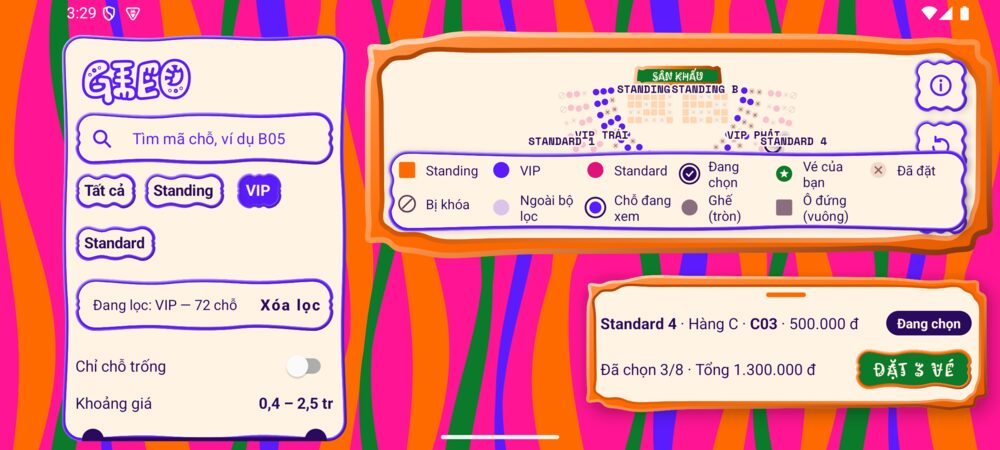
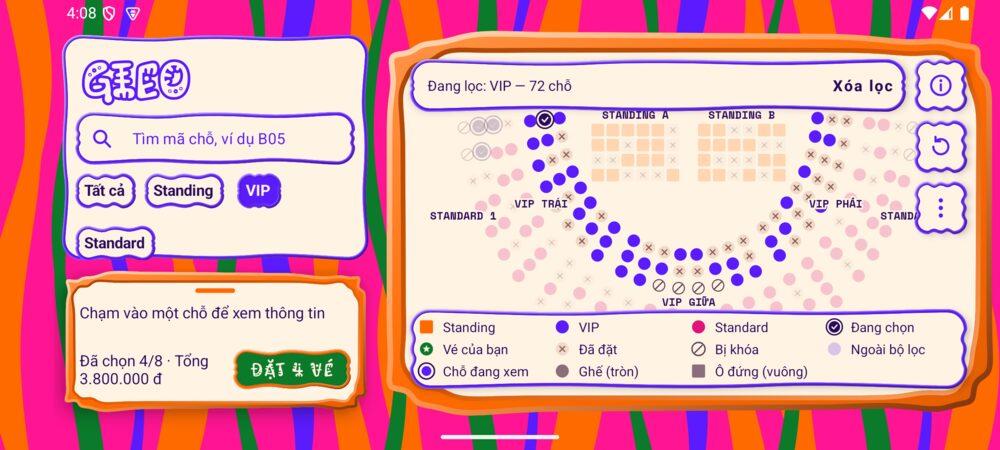
docs(readme): describe docked landscape sheet
Explains the two-tier left column and the floating filter status in
landscape, refreshes the landscape screenshot, and logs this session.

diff --git a/README.md b/README.md
@@ -32,7 +32,7 @@ Mỗi chỗ có một trong năm trạng thái hiển thị: **Còn trống**, *
 | Bottom Sheet | Thu gọn hiện chỗ đang xem và tóm tắt lựa chọn; mở rộng hiện danh sách "Đang chọn" và "Vé của bạn"; bấm dòng để định vị chỗ trên sơ đồ, bấm ✕ để bỏ chọn; đồng bộ hai chiều với sơ đồ |
 | Đặt vé | Nút "Đặt N vé", hộp thoại xác nhận, chỗ đã đặt thành "Vé của bạn" |
 | Lưu dữ liệu | Lựa chọn và vé của bạn được lưu bằng `SharedPreferences` và còn lại sau khi tắt hẳn app; nút ⋮ → "Làm mới dữ liệu" để xóa |
-| Xoay màn hình | Giữ nguyên chỗ đang xem, bộ lọc, góc nhìn, bảng chú thích, hộp thoại; bố cục riêng cho máy ngang (panel lọc bên trái, bảng chi tiết 420dp) |
+| Xoay màn hình | Giữ nguyên chỗ đang xem, bộ lọc, góc nhìn, bảng chú thích, hộp thoại; bố cục riêng cho máy ngang: cột trái gồm panel lọc ở trên và bảng chi tiết ở đáy, sơ đồ bên phải cao trọn màn hình nên bảng chú thích chỉ che khoảng 22% sơ đồ |
 | Giao diện "Poster lỏng" | Cả màn hình là poster hồng sen với các dải lỏng cam, xanh lá, tím uốn lượn liên tục; sơ đồ là một miếng sticker có viền cam lượn sóng, nổi khối (sáng ở góc trên trái, tối ở góc dưới phải); thanh lọc, nút, hộp thoại và bảng chi tiết cũng là sticker có viền nổi cùng hướng sáng; sticker sơ đồ kết thúc cách bảng chi tiết 10dp nên không bị che. Nhãn khu viết hoa; ký hiệu ✓ ✕ ★ và gạch chéo hiện ở mọi mức zoom. Chữ lượn Kablammo cho "SÂN KHẤU" và nút "Đặt N vé" (xanh lá viền cam), Space Mono cho nhãn. Bố cục khớp bản xem trước "G. Poster lỏng" |
 | Hiệu ứng động | Mở app: chỗ hiện dần từ sân khấu ra. Chọn hoặc bỏ chọn: chỗ nảy lên kèm vòng lan. Chạm chỗ không chọn được: chỗ lắc ngang. Đặt vé xong: các chỗ lần lượt lật sang "Vé của bạn". Chip và nút nảy khi bấm; tổng tiền chạy số. Tắt hết khi người dùng tắt hiệu ứng động của hệ thống |
 | Tên đêm nhạc "Gieo" | Chữ lượn Kablammo màu kem viền tím ở đầu thanh lọc (máy ngang: đầu panel lọc). Mở app: từng chữ rơi xuống nảy nhẹ, sau đó lắc lư rất chậm; xoay máy thì hiện ngay, không rơi lại |
@@ -46,7 +46,7 @@ Chụp trên emulator Pixel 6 (Android 15) từ bản thử nghiệm giao diện
 |:---:|:---:|:---:|
 | <img src="docs/screenshots/portrait-default.jpg" width="240" alt="Màn hình dọc ở góc nhìn mặc định"> | <img src="docs/screenshots/portrait-selected-sheet.jpg" width="240" alt="Đã zoom vào sơ đồ, chọn 3 chỗ, bảng chi tiết mở rộng"> | <img src="docs/screenshots/booking-dialog.jpg" width="240" alt="Hộp thoại xác nhận đặt 3 vé"> |
 
-Ngang: panel lọc bên trái, bảng chi tiết rộng 420dp ở góc dưới phải, bảng chú thích đang mở, bộ lọc VIP đang bật.
+Ngang: cột trái gồm panel lọc và bảng chi tiết, sơ đồ cao trọn màn hình bên phải; bộ lọc VIP đang bật (thẻ "Đang lọc" nổi ở đầu sơ đồ) và bảng chú thích đang mở.
 
 <img src="docs/screenshots/landscape-filter-legend.jpg" width="640" alt="Màn hình ngang có bộ lọc VIP và bảng chú thích">
 
@@ -122,7 +122,7 @@ Các quyết định kiến trúc chính:
 - **Cử chỉ:** `GestureDetector` cho kéo một ngón và chạm (`onSingleTapUp`, phản hồi tức thì, không chờ chạm đúp); zoom và xoay hai ngón tự đo, vì `ScaleGestureDetector` chỉ bắt đầu khi hai ngón cách nhau tối thiểu `getScaledMinimumScalingSpan()` (đo được 446px trên emulator Android 15) nên zoom bị trễ rõ rệt.
 - **Bottom Sheet:** `CoordinatorLayout` + `BottomSheetBehavior` (persistent sheet, sơ đồ vẫn chạm được khi sheet mở). Hai hộp thoại xác nhận là `DialogFragment` nên `FragmentManager` tự tạo lại sau khi xoay.
 - **Trang trí tách khỏi sơ đồ.** Nền poster và viền sticker là hai View riêng trong package `decor/`, không phải là chỗ, nên không vi phạm yêu cầu "mọi chỗ vẽ bởi một Custom View". `VenueMapView` vẫn chỉ vẽ sân khấu và 224 chỗ; sơ đồ lùi vào 16dp để mép nằm khuất dưới viền. Sơ đồ vẫn kéo xuống dưới bảng chi tiết như trước (camera không đổi), nhưng được cắt bằng outline của View: bo góc 44dp và bỏ phần dưới đáy sticker. Chạm lên viền hay vào khe giữa sticker và bảng không lọt xuống sơ đồ.
-- **Bố cục dọc và ngang** dùng chung các file include (`view_map_layers`, `view_bottom_sheet`, `view_price_controls`, `view_filter_status`) với **cùng bộ id**, nên `MainActivity` không cần biết hướng màn hình. `layout-land/` chỉ khác ở vị trí các khối.
+- **Bố cục dọc và ngang** dùng chung các file include (`view_map_layers`, `view_bottom_sheet`, `view_price_controls`, `view_filter_status`) với **cùng bộ id**, nên `MainActivity` không cần biết hướng màn hình. `layout-land/` chỉ khác ở vị trí các khối: bảng chi tiết nằm trong một `CoordinatorLayout` riêng ở cột trái, nên khi mở rộng nó phủ lên panel lọc chứ không phủ sơ đồ. Cờ `sheet_beside_map` (`values-land/bools.xml`) báo cho `MainActivity` biết bảng nằm cạnh sơ đồ: khi đó panel lọc chừa chỗ cho bảng, còn sơ đồ chỉ chừa thanh điều hướng.
 
 ## 4. Cách tổ chức dữ liệu
 
@@ -201,7 +201,7 @@ Khi vẽ, `VenueMapView` dựng `Matrix` từ chính bốn số này (`setScale(
 | **Giới hạn zoom** | nhỏ nhất = Fit tại góc hiện tại, lớn nhất = `6 ×` Fit tại góc mặc định | tại mức lớn nhất một ghế to khoảng 42dp |
 | **Kẹp biên** | mép khung bao chỉ được lùi vào trong mép vùng nhìn tối đa 48dp | không kéo sơ đồ ra khỏi màn hình; nếu khung bao nhỏ hơn vùng nhìn thì căn giữa |
 
-Góc mặc định là `−90°` khi màn hình dọc (sân khấu bên trái, để sơ đồ lấp đầy chiều cao) và `0°` khi ngang (sân khấu ở trên). `bottomInset` là chiều cao bảng chi tiết đang thu gọn: sơ đồ được căn giữa phía trên bảng.
+Góc mặc định là `−90°` khi màn hình dọc (sân khấu bên trái, để sơ đồ lấp đầy chiều cao) và `0°` khi ngang (sân khấu ở trên). `bottomInset` là phần đáy bị bảng chi tiết thu gọn che (máy dọc) hoặc chỉ là thanh điều hướng (máy ngang, bảng nằm ở cột trái): sơ đồ được căn giữa phần còn lại.
 
 Xoay hai ngón dùng `RotationTracker` (Java thuần): từ hai điểm chạm tính góc đường nối bằng `atan2`, trả độ lệch so với lần trước, chuẩn hóa về `(−π, π]` để không nhảy 360° khi đi qua trục ±180°. Sơ đồ chỉ bắt đầu xoay khi đường nối quay quá 6°, và tự chỉnh thẳng nếu nhấc tay trong ±8° quanh một góc vuông.
 
@@ -471,3 +471,15 @@ Dự án có sử dụng **Claude Code** (Anthropic) và **Codex** (OpenAI). Quy
   - Ảnh chụp theo code đang sửa dở; nếu các thay đổi viền sticker không được commit thì ảnh sẽ lệch với bản nộp.
   - Ở ảnh ngang, sticker sơ đồ thấp (kết thúc phía trên bảng chi tiết thu gọn) nên bảng chú thích che gần hết sơ đồ; AI chỉ chụp đúng hiện trạng, không sửa bố cục.
 - **Sinh viên kiểm tra/điều chỉnh:** Đã rà soát và kiểm tra bốn ảnh mới cùng chú thích trong README. Ảnh minh họa đúng các trạng thái đã chọn: sơ đồ mặc định, sơ đồ đã zoom với ba chỗ đang chọn và bảng chi tiết mở rộng, hộp thoại xác nhận đặt ba vé, và bố cục ngang khi bật bộ lọc VIP và bảng chú thích.
+
+### 2026-11-27 (tiếp): kiểm tra theo đề, commit phần viền nổi, sửa bố cục ngang
+
+- **Agent/model:** Claude Code (Claude Opus 5.5), có dùng `huashu-design` và `ui-ux-pro-max` để vẽ ba hướng bố cục ngang (`design-demos/landscape-fix/options.html`, ngoài repo). Hỏi sinh viên về hướng bố cục, danh sách commit, model của phiên trước (Q50, Q51), rồi về chỗ đặt dòng "Đang lọc" và lỗi lint (Q52). Kiểm trên emulator bằng `adb`, `uiautomator dump` (đo khung bảng chú thích) và ảnh chụp, cả dọc lẫn ngang; chạy `connectedDebugAndroidTest` cho `StickerReliefTest`.
+- **Nhiệm vụ được giao:** đối chiếu đồ án với đề; commit các thay đổi Codex để lại; sửa lỗi bảng chú thích che gần hết sơ đồ khi xoay ngang.
+- **Code được sinh/sửa:** tách thay đổi của Codex thành 7 commit code và 1 commit tài liệu (không đổi nội dung). Sửa `layout-land/activity_main.xml` (cột trái hai tầng, thẻ "Đang lọc" nổi trên sơ đồ), `MainActivity`, `DetailSheet`, `FilterBar`, `view_bottom_sheet.xml` (chữ 2 dòng khi ngang), `item_legend.xml`; thêm `values/bools.xml`, `values-land/bools.xml`; sửa `dimens`, `integers`; xóa `bg_panel_card.xml`; sửa `RaisedStickerStroke` để bỏ hai API nội bộ của Material. Chụp lại ảnh ngang.
+- **Lỗi hoặc hạn chế của kết quả AI:**
+  - Bản đầu của bố cục ngang làm dòng tổng tiền bị cắt, bảng chú thích xuống 3 dòng chữ (che 28%) và dòng "Đang lọc" bị đẩy khuất; phát hiện qua ảnh chụp và đo bằng `uiautomator`, đã sửa (cột 296dp, chú thích 4 cột, thẻ "Đang lọc" nổi).
+  - Thẻ "Đang lọc" ở máy ngang che phần sân khấu khi đang lọc; nhãn khu sát mép phải vẫn có thể nằm dưới cột nút như bản dọc.
+  - Bảng chi tiết khi mở rộng ở máy ngang chỉ cao khoảng nửa màn hình nên danh sách phải cuộn sớm.
+  - Chỉ kiểm trên emulator Pixel 6; chưa thử máy thật hay máy có màn hình nhỏ hơn.
+- **Sinh viên kiểm tra/điều chỉnh:**
